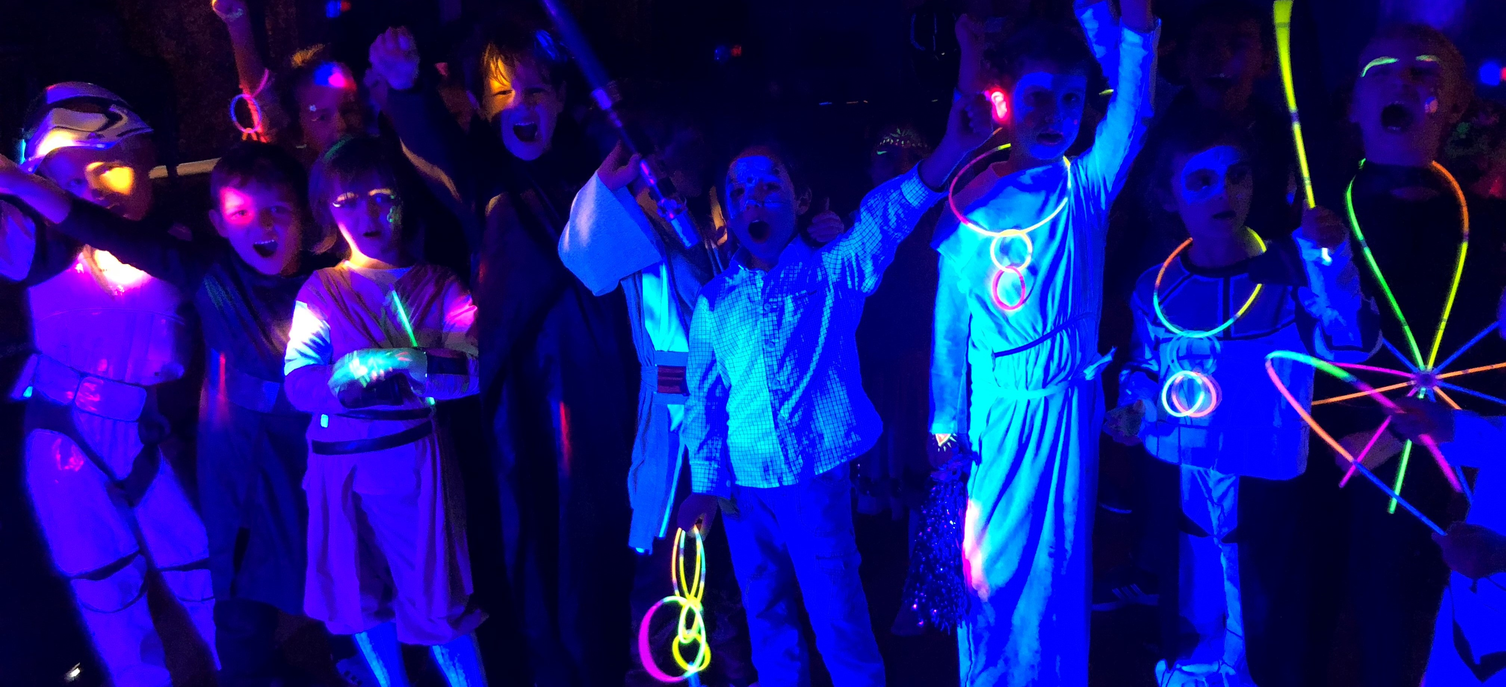
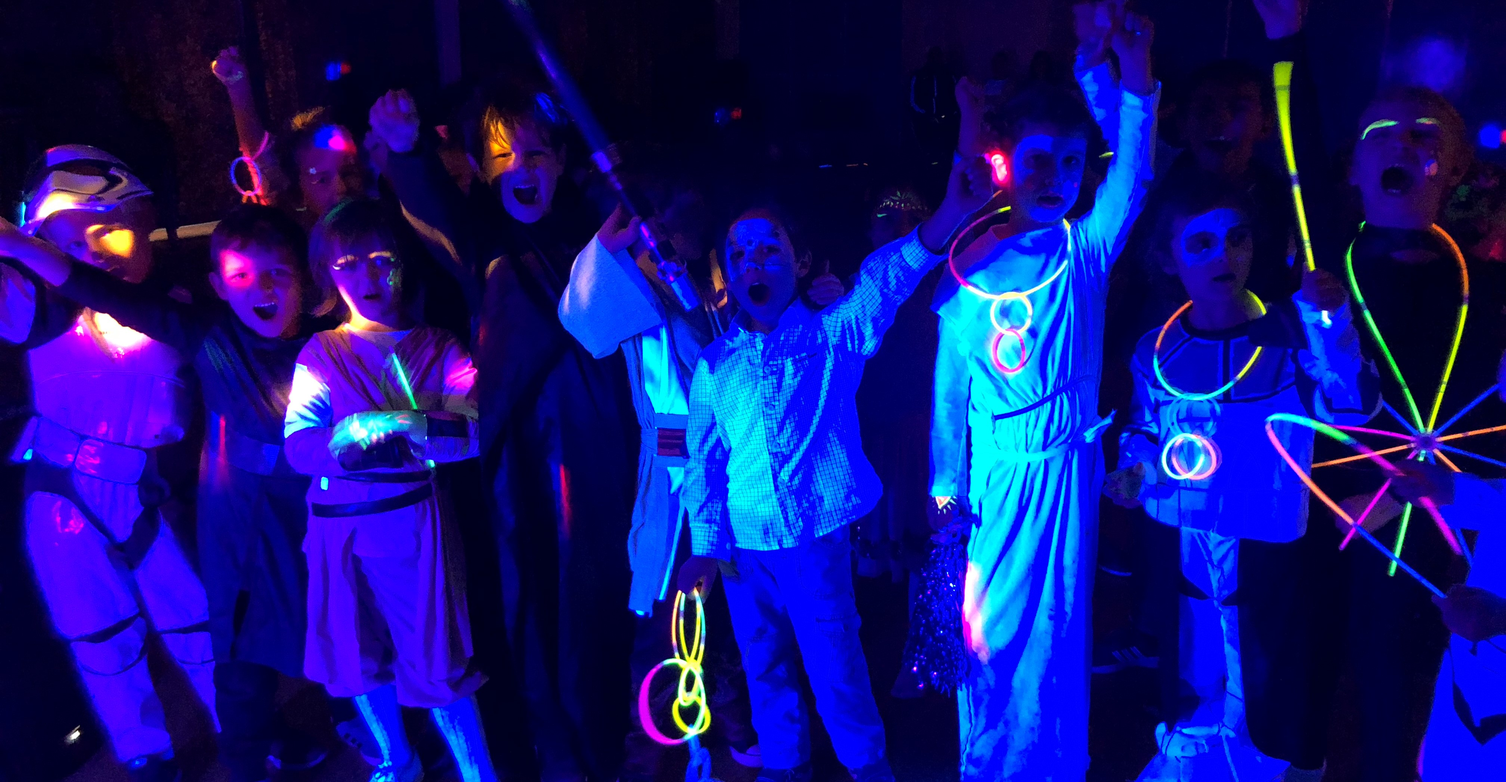
add video links to JingleBugs and GlowBugs and adjust main images for Choirs and WMC

diff --git a/src/pages/Glowbugs.js b/src/pages/Glowbugs.js
@@ -1,8 +1,9 @@
-import { Row, Col, Container, Image } from "react-bootstrap";
+import { Row, Col, Container, Image, Ratio } from "react-bootstrap";
+import MainImageContainer from "../components/MainImageContainer";
 import "./Glowbugs.css";
 import ReviewsCarousel from "../components/ReviewCarousel";
 import GlowBugsLogo from "../images/glowbug_logo.jpg";
-import StarWars from "../images/GB_star_wars2.jpg";
+import StarWars from "../images/GB_star_wars.jpg";
 import GlowBug from "../images/glowbug.jpg";
 import GlowBaby from "../images/gb_baby.jpg";
 import GlowMakeOver from "../images/gb_makeover.jpg";
@@ -30,16 +31,16 @@ function Glowbugs() {
 
   return (
     <>
-      <Container style={{ padding: "0px 150px" }}>
+      <MainImageContainer>
         <Image
           fluid
           src={StarWars}
           className="glowbugs_main_image"
           alt="children dressed in star wars costumes and waving glow sticks"
         />
-      </Container>
+      </MainImageContainer>
       <Container style={{ padding: "20px 50px" }}>
-        <Row>
+        <Row style={{ marginBottom: "20px" }}>
           <Col xs={12} style={{ textAlign: "center" }}>
             <img src={GlowBugsLogo} height={140} alt="Glow Bugs Logo" />
           </Col>
@@ -65,20 +66,26 @@ function Glowbugs() {
             lg={8}
             style={{ textAlign: "right", padding: "0px 30px 60px" }}
           >
-            <Image
-              fluid
-              src={GlowParty}
-              alt="Children at a party having fun and wearing glow bands"
-            />
+            <Ratio aspectRatio="16x9">
+              <iframe
+                width="1013"
+                height="570"
+                src="https://www.youtube.com/embed/BjqK_NBrmQI"
+                title="Glow Bug Parties in Surrey and surrounding areas"
+                frameborder="0"
+                allow="accelerometer; autoplay; clipboard-write; encrypted-media; gyroscope; picture-in-picture; web-share"
+                allowfullscreen
+              ></iframe>
+            </Ratio>
           </Col>
         </Row>
         <hr />
         <Row style={{ margin: "20px 0px" }}>
           <Col xs={12} lg={5}>
-            <img
-              src={GlowMakeOver}
-              height={280}
-              alt="Children having glow in the dark make up applied"
+            <Image
+              fluid
+              src={GlowParty}
+              alt="Children at a party having fun and wearing glow bands"
             />
           </Col>
           <Col xs={12} lg={7} style={{ padding: "40px 0px" }}>

diff --git a/src/pages/JingleBugs.js b/src/pages/JingleBugs.js
@@ -1,4 +1,4 @@
-import { Row, Col, Container, Image } from "react-bootstrap";
+import { Row, Col, Container, Image, Ratio } from "react-bootstrap";
 import ReviewsCarousel from "../components/ReviewCarousel";
 import JingleBugsLogo from "../images/jinglebugs_logo1.jpg";
 import JingleBug from "../images/jinglebug.jpg";
@@ -94,8 +94,9 @@ function JingleBugs() {
             </p>
           </Col>
         </Row>
+        <hr />
         <Row style={{ marginTop: "20px" }}>
-          <Col xs={12} lg={5}>
+          <Col xs={12} lg={6} style={{ padding: "30px" }}>
             <p>
               Jingle Bugs not only offers a broad spectrum of song-based fun to
               develop a child&#39;s love of and skill for music making, it also
@@ -111,8 +112,18 @@ function JingleBugs() {
               a variety of languages.
             </p>
           </Col>
-          <Col xs={12} lg={7} style={{ padding: "20px" }}>
-            <Image fluid src={BramblyHouse} />
+          <Col xs={12} lg={6} style={{ padding: "30px" }}>
+            <Ratio aspectRatio="16x9">
+              <iframe
+                width="1013"
+                height="570"
+                src="https://www.youtube.com/embed/l7idwawSqIQ"
+                title="Jingle Bugs music classes for babies, toddlers and preschoolers"
+                frameborder="0"
+                allow="accelerometer; autoplay; clipboard-write; encrypted-media; gyroscope; picture-in-picture; web-share"
+                allowfullscreen
+              ></iframe>
+            </Ratio>
           </Col>
         </Row>
         <hr />
@@ -155,9 +166,9 @@ function JingleBugs() {
             </p>
           </Col>
         </Row>
-        <hr />
+
         <Row style={{ marginTop: "20px" }}>
-          <Col xs={12}>
+          <Col xs={12} lg={6}>
             <p>
               Jingle Bugs is also a regular feature in local nurseries such as
               Daisy Chain, Reigate and Brambly House, Merstham.
@@ -176,6 +187,13 @@ function JingleBugs() {
               To book onto Jingle Bugs at the Woodhatch Community Centre call
               the centre directly on 01737 221030.
             </p>
+          </Col>
+          <Col xs={12} lg={6} style={{ padding: "20px" }}>
+            <Image fluid src={BramblyHouse} />
+          </Col>
+        </Row>
+        <Row>
+          <Col xs={12}>
             <p>
               For more information about Jingle Bugs classes, to book Jingle
               Bugs for your setting or for Jingle Bugs parties, email{" "}

diff --git a/src/pages/Home.js b/src/pages/Home.js
@@ -19,7 +19,8 @@ function Home() {
       </MainImageContainer>
       <Container>
         <Row style={{ marginTop: 30, marginBottom: 20, textAlign: "center" }}>
-          <h1>Educate - Entertain - Include - Inspire.</h1>
+          <h1>The Good That Music Can Do</h1>
+          <h2>Educate - Entertain - Include - Inspire.</h2>
         </Row>
 
         <Row style={{ marginTop: 30, marginBottom: 20 }}>

diff --git a/src/pages/WellbeingMusicClub.js b/src/pages/WellbeingMusicClub.js
@@ -1,6 +1,6 @@
 import React from "react";
 import { Row, Col, Container, Image } from "react-bootstrap";
-import Christmas from "../images/WMC_Christmas.png";
+import Christmas from "../images/WMC_christmas.png";
 import Hospital from "../images/WMC_hospital.jpg";
 import SpecialNeedsChoir from "../images/WMC_special_needs_choir.jpg";
 import StayAndPlay from "../images/WMC_stay_play.png";

diff --git a/src/pages/Choirs.js b/src/pages/Choirs.js
@@ -1,7 +1,7 @@
 import React from "react";
 import { Row, Col, Container, Image } from "react-bootstrap";
 import SeatedChoir from "../images/choir_seated.jpg";
-import ParkChoir from "../images/unison_choir.jpg";
+import ParkChoir from "../images/unison_choir2.jpg";
 import EveningChoir from "../images/choir_evening.jpg";
 
 function Choirs() {

diff --git a/src/App.js b/src/App.js
@@ -1,4 +1,5 @@
 import "./App.css";
+import "bootstrap/dist/css/bootstrap.min.css";
 import { BrowserRouter, Routes, Route } from "react-router-dom";
 import Header from "./components/Header";
 import Footer from "./components/Footer";

diff --git a/src/components/MainImageContainer.css b/src/components/MainImageContainer.css
@@ -1,3 +1,9 @@
 .main_image_container {
-  padding: 20px 100px;
+  padding: 20px 150px;
+}
+
+@media screen and (max-width: 992px) {
+  .main_image_container {
+    padding: 20px 0;
+  }
 }
